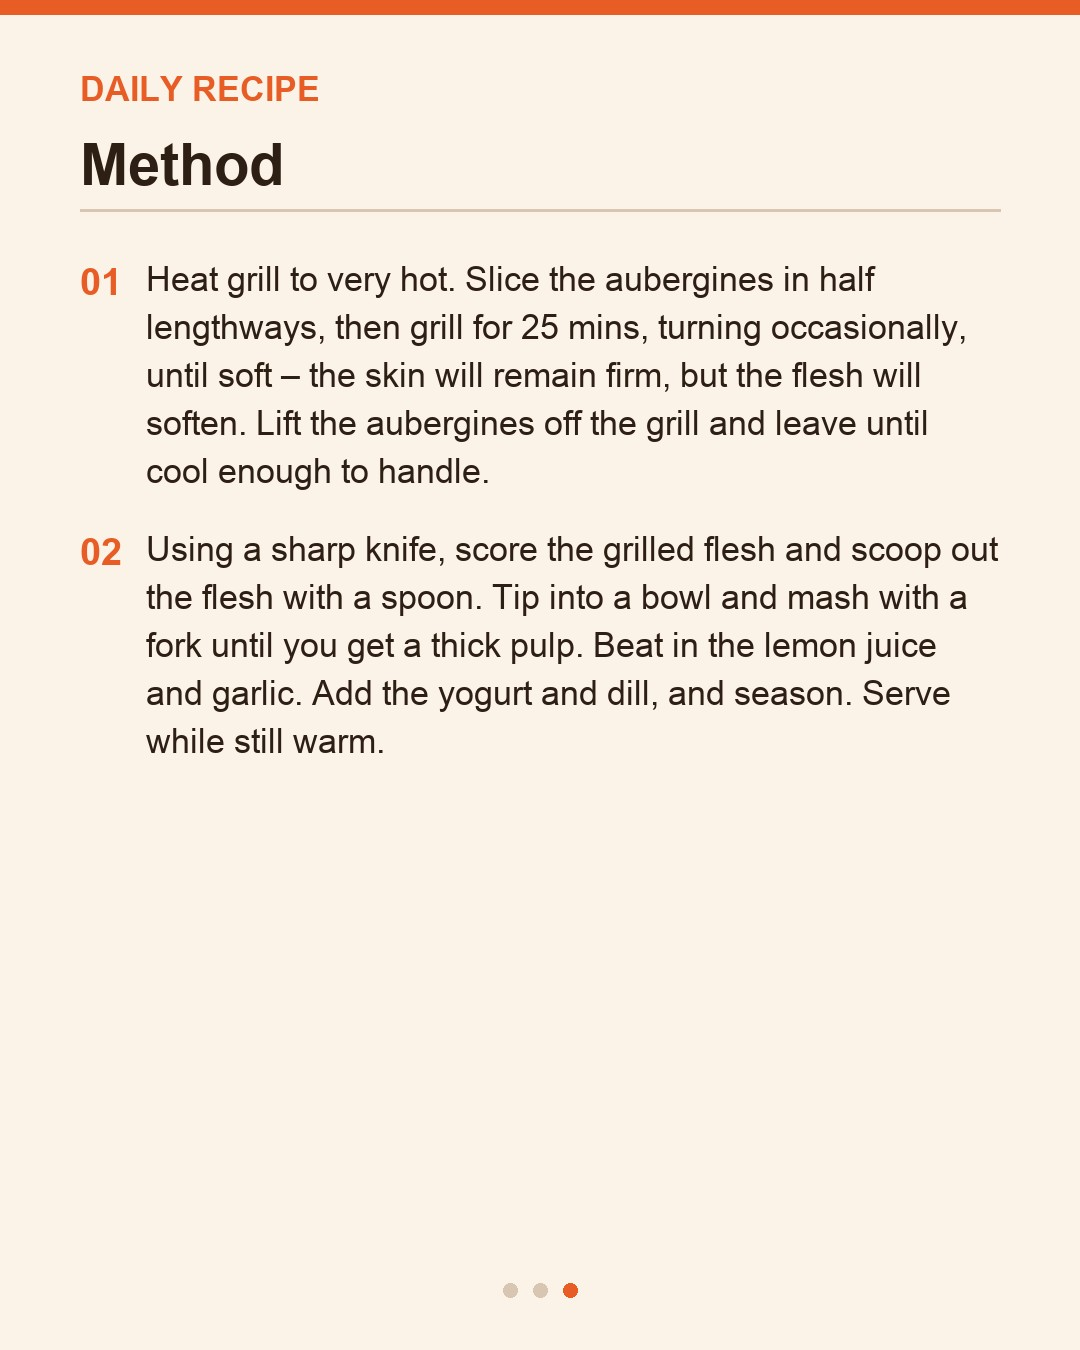
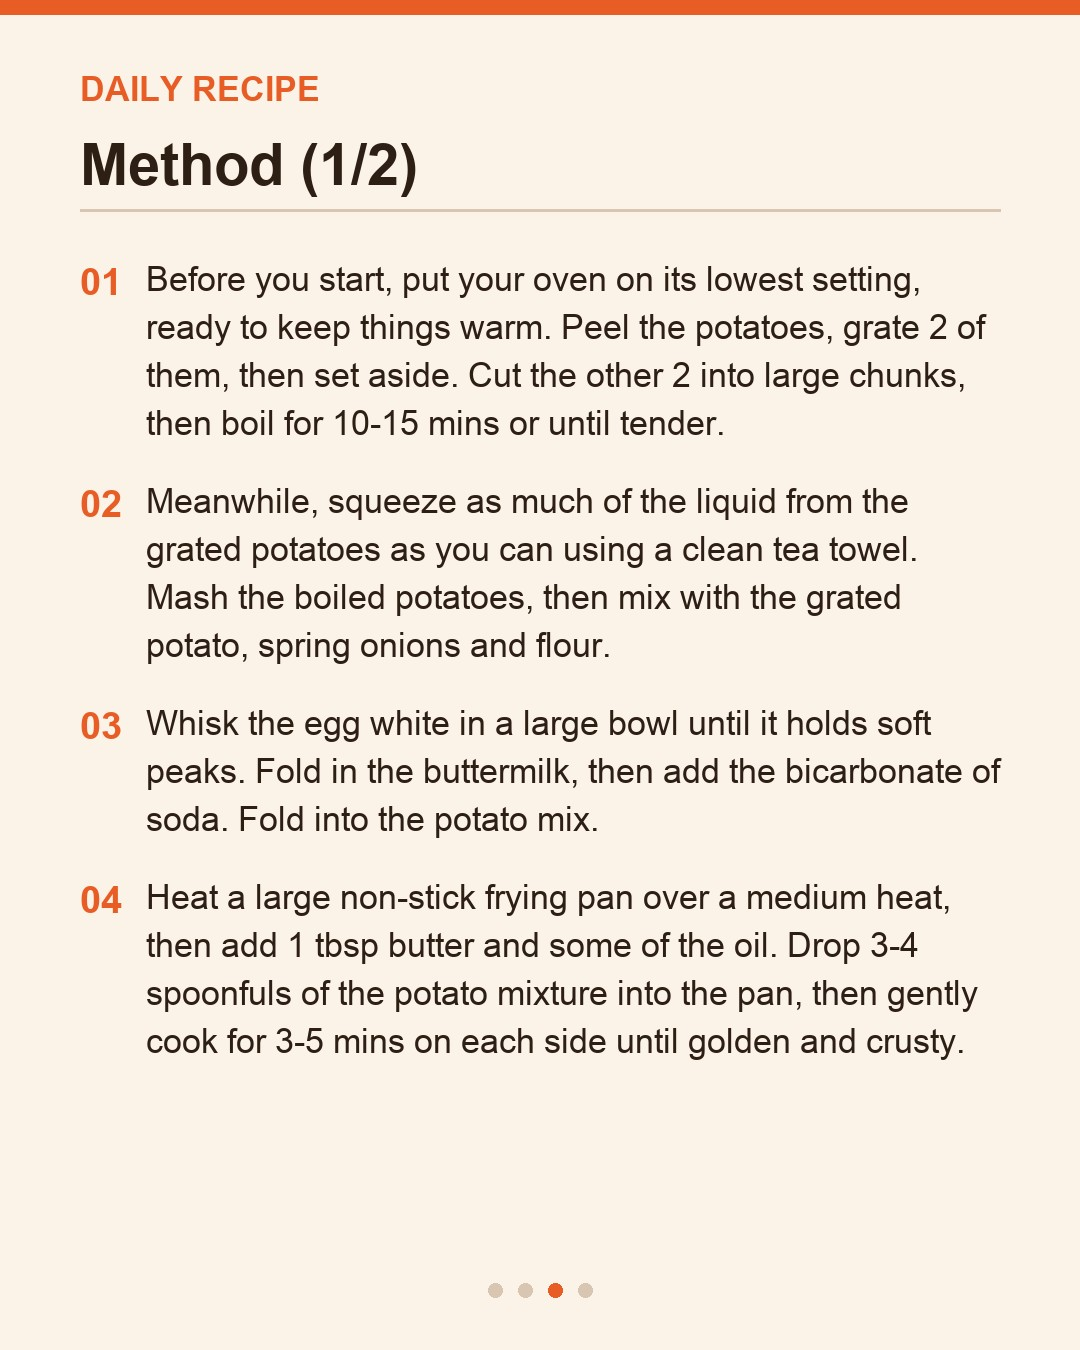
Add local test-post script using a temporary image host

diff --git a/src/test_post.py b/src/test_post.py
@@ -1,0 +1,128 @@
+"""One-off local test: publish today's generated cards to Instagram.
+
+Unlike publish.py (which uses raw.githubusercontent.com URLs), this
+uploads the images to tmpfiles.org — a temporary public host whose links
+expire after ~60 minutes — so you can test before the repo is on GitHub.
+
+Reads IG_ACCESS_TOKEN (required) and IG_USER_ID (optional, looked up via
+/me if missing) from the environment or from a .env file in the repo root.
+
+Usage:
+    python src/test_post.py           # publish today's cards as a test
+"""
+
+import os
+import sys
+from datetime import datetime
+from pathlib import Path
+from zoneinfo import ZoneInfo
+
+import requests
+
+from publish import API_BASE, create_container
+
+ROOT = Path(__file__).resolve().parent.parent
+
+
+def load_dotenv() -> None:
+    env_path = ROOT / ".env"
+    if not env_path.exists():
+        return
+    for line in env_path.read_text().splitlines():
+        line = line.strip()
+        if not line or line.startswith("#") or "=" not in line:
+            continue
+        key, _, value = line.partition("=")
+        os.environ.setdefault(key.strip(), value.strip().strip("'\""))
+
+
+def upload_temp(path: Path) -> str:
+    """Upload to tmpfiles.org and return the direct-download URL."""
+    with path.open("rb") as fh:
+        resp = requests.post(
+            "https://tmpfiles.org/api/v1/upload",
+            files={"file": (path.name, fh, "image/jpeg")},
+            timeout=60,
+        )
+    resp.raise_for_status()
+    url = resp.json()["data"]["url"]
+    # Page URL -> direct file URL Instagram can fetch
+    return url.replace("tmpfiles.org/", "tmpfiles.org/dl/")
+
+
+def main() -> None:
+    load_dotenv()
+
+    token = os.environ.get("IG_ACCESS_TOKEN")
+    if not token:
+        print(
+            "Set IG_ACCESS_TOKEN in the environment or in a .env file "
+            "in the repo root (see .env.example).",
+            file=sys.stderr,
+        )
+        sys.exit(1)
+
+    ig_user_id = os.environ.get("IG_USER_ID")
+    if not ig_user_id:
+        resp = requests.get(
+            f"{API_BASE.rsplit('/', 1)[0]}/me",
+            params={"fields": "user_id,username", "access_token": token},
+            timeout=30,
+        ).json()
+        ig_user_id = str(resp.get("user_id") or resp.get("id") or "")
+        if not ig_user_id:
+            print(f"Could not resolve IG user id from token: {resp}", file=sys.stderr)
+            sys.exit(1)
+        print(f"Posting as @{resp.get('username', '?')} (id {ig_user_id})")
+
+    date_str = datetime.now(ZoneInfo("Asia/Kolkata")).strftime("%Y-%m-%d")
+    posts_dir = ROOT / "posts"
+    images = sorted(posts_dir.glob(f"{date_str}-*.jpg"))
+    caption_path = posts_dir / f"{date_str}.txt"
+    if not images or not caption_path.exists():
+        print(f"No generated post for {date_str}. Run src/generate.py first.", file=sys.stderr)
+        sys.exit(1)
+
+    caption = caption_path.read_text(encoding="utf-8")
+
+    print(f"Uploading {len(images)} images to temporary host...")
+    urls = []
+    for path in images:
+        url = upload_temp(path)
+        print(f"  {path.name} -> {url}")
+        urls.append(url)
+
+    if len(urls) == 1:
+        creation_id = create_container(
+            ig_user_id, token, {"image_url": urls[0], "caption": caption}
+        )
+    else:
+        print("Creating carousel item containers...")
+        children = [
+            create_container(ig_user_id, token, {"image_url": u, "is_carousel_item": "true"})
+            for u in urls
+        ]
+        print("Creating carousel container...")
+        creation_id = create_container(
+            ig_user_id,
+            token,
+            {"media_type": "CAROUSEL", "children": ",".join(children), "caption": caption},
+        )
+
+    print("Publishing...")
+    resp = requests.post(
+        f"{API_BASE}/{ig_user_id}/media_publish",
+        data={"creation_id": creation_id, "access_token": token},
+        timeout=60,
+    ).json()
+    media_id = resp.get("id")
+    if not media_id:
+        print(f"Failed to publish: {resp}", file=sys.stderr)
+        sys.exit(1)
+
+    print(f"\n✅ Published! Media ID: {media_id}")
+    print("Check your Instagram feed.")
+
+
+if __name__ == "__main__":
+    main()